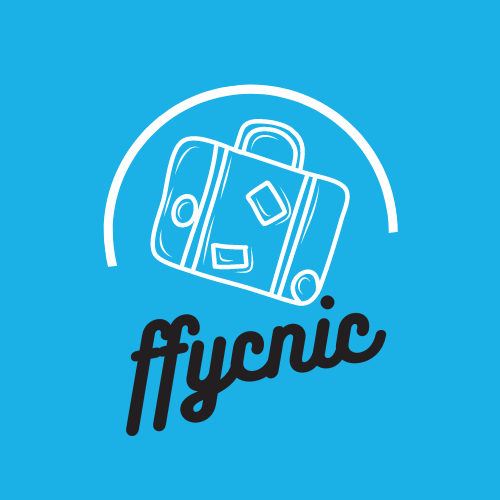
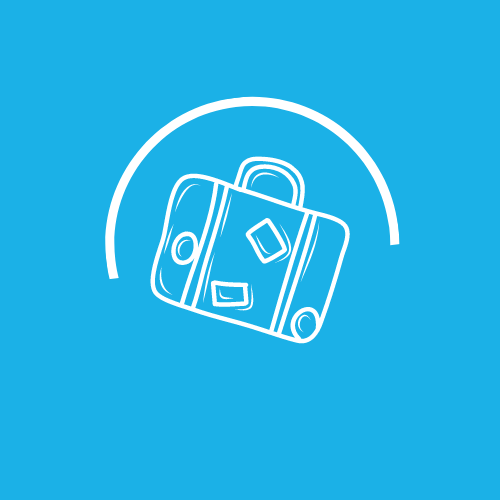
ch

Changed region(s): [[0.18, 0.15, 0.81, 0.87], [0.78, 0.45, 0.81, 0.51]]

diff --git a/s914_vue_trip_kimsunhyung_yooseungah/src/components/HeaderComponent.vue b/s914_vue_trip_kimsunhyung_yooseungah/src/components/HeaderComponent.vue
@@ -1,7 +1,10 @@
 <template>
 <div>
     <b-navbar toggleable="lg" type="dark" class="bg">
-    <b-navbar-brand href="#">EnjoyTrip</b-navbar-brand>
+    <b-navbar-brand href="#">
+        <img src="../assets/ffycnic.png">
+        <img src="../assets/ffycniclogo.png">
+    </b-navbar-brand>
     <b-navbar-toggle target="nav-collapse"></b-navbar-toggle>
 
     <b-collapse id="nav-collapse" is-nav>
@@ -41,6 +44,11 @@ export default {
 <style>
 .bg{
     background-color: #1bb1e7;
+}
+img {
+    height:15%;
+    width:15%;
+    object-fit:cover;
 }
 </style>
 
